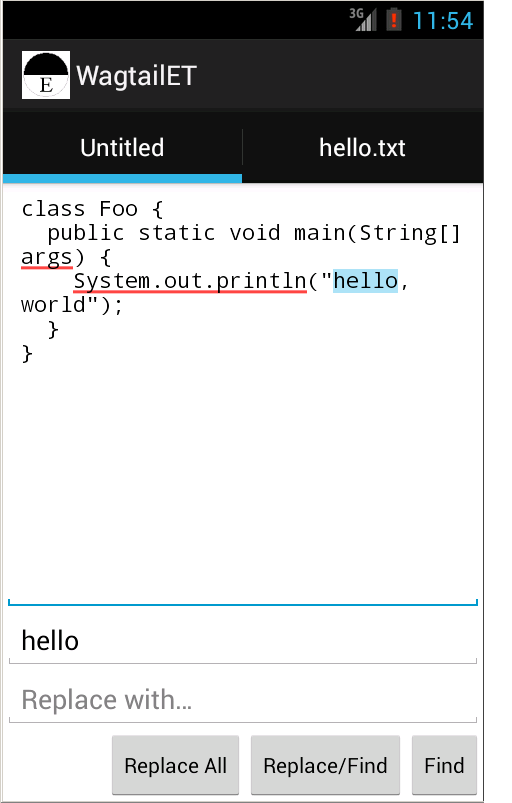
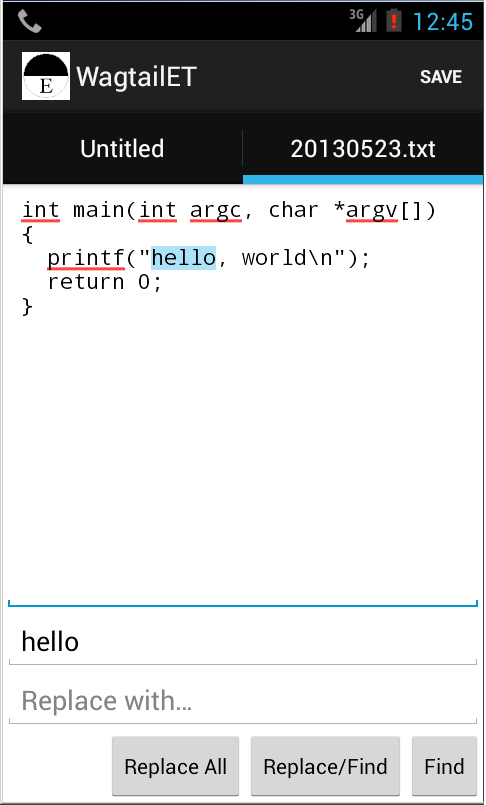
add Save button.

diff --git a/src/org/jitu/wagtail/et/WagtailET.java b/src/org/jitu/wagtail/et/WagtailET.java
@@ -115,6 +115,9 @@ public class WagtailET extends Activity {
     @Override
     public boolean onOptionsItemSelected(MenuItem item) {
         switch (item.getItemId()) {
+        case R.id.menu_button_save:
+            onSave();
+            return true;
         case R.id.menu_file:
             showFileMenu();
             return true;
@@ -458,10 +461,10 @@ public class WagtailET extends Activity {
     private void onClickDate() {
         Intent intent = new Intent("wagtail.intent.action.DATE");
         intent.setType("text/plain");
-        intent.putExtra("pattern", "abc");
+        intent.putExtra("pattern", "yyyyMMdd");
         PackageManager packageManager = getPackageManager();
         List<ResolveInfo> activities = packageManager.queryIntentActivities(intent, 0);
-        boolean isIntentSafe = activities.size() > 0;
+        boolean isIntentSafe = (activities.size() > 0);
         if (isIntentSafe) {
             startActivity(intent);
         }
